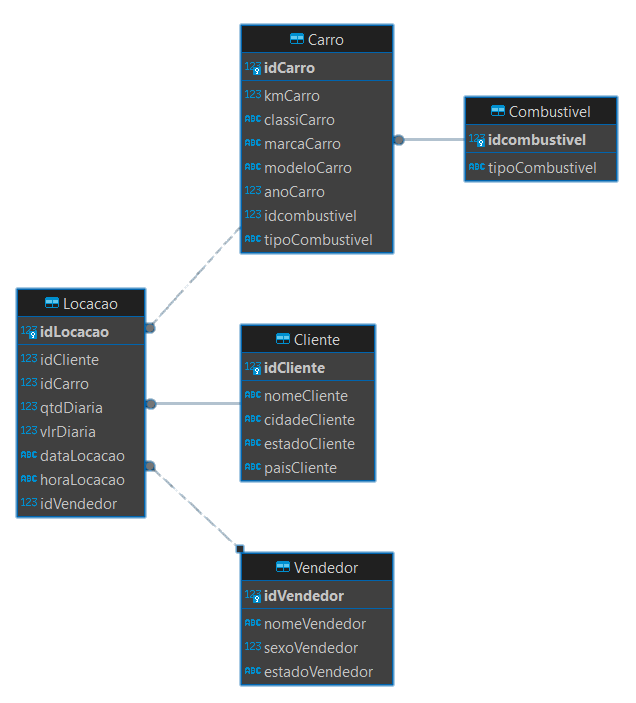
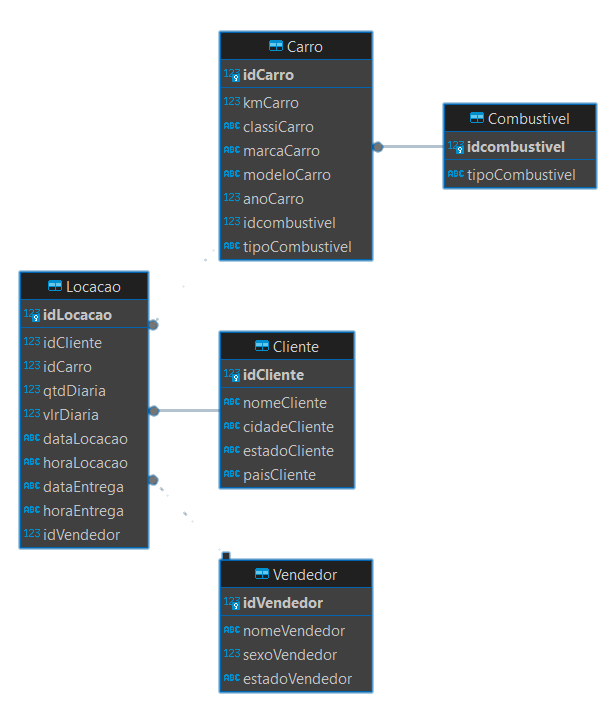
update README info and images

diff --git a/sprint-9/exercicios/modelagem-relacional/README.md b/sprint-9/exercicios/modelagem-relacional/README.md
@@ -2,7 +2,7 @@
 
 ## Normalização da Tabela tb_locacao
 
-Esse README descreve o processo de normalização da tabela tb_locacao proposta no exercicío 1, incluindo as motivações para a normalização, os passos realizados para atingir o resultado final e o diagrama resultante do banco de dados normalizado.
+Esse README descreve o processo de normalização da tabela tb_locacao, incluindo as motivações para a normalização, os passos realizados para atingir o resultado final e o diagrama resultante do banco de dados normalizado.
 
 ## Motivações para a Normalização:
 
@@ -69,6 +69,8 @@ CREATE TABLE Locacao (
   vlrDiaria DECIMAL,
   dataLocacao DATE,
   horaLocacao TIME,
+  dataEntrega DATE,
+  horaEntrega TIME,
   idVendedor INTEGER,
   FOREIGN KEY (idCliente) REFERENCES Cliente (idCliente),
   FOREIGN KEY (idCarro) REFERENCES Carro (idCarro),
@@ -113,8 +115,8 @@ INSERT OR IGNORE INTO Vendedor (idVendedor, nomeVendedor, sexoVendedor, estadoVe
 SELECT DISTINCT idVendedor, nomeVendedor, sexoVendedor, estadoVendedor
 FROM tb_locacao;
 
-INSERT INTO Locacao (idLocacao, idCliente, idCarro, qtdDiaria, vlrDiaria, dataLocacao, horaLocacao, idVendedor)
-SELECT DISTINCT idLocacao, idCliente, idCarro, qtdDiaria, vlrDiaria, dataLocacao, horaLocacao, idVendedor
+INSERT INTO Locacao (idLocacao, idCliente, idCarro, qtdDiaria, vlrDiaria, dataLocacao, horaLocacao, dataEntrega, horaEntrega, idVendedor)
+SELECT DISTINCT idLocacao, idCliente, idCarro, qtdDiaria, vlrDiaria, dataLocacao, horaLocacao, dataEntrega, horaEntrega, idVendedor
 FROM tb_locacao;
 ```
 
@@ -122,8 +124,57 @@ FROM tb_locacao;
 
 A estrutura resultante do banco de dados normalizado consiste em várias tabelas separadas para cada entidade identificada, com chaves estrangeiras estabelecendo as relações entre elas.
 
-#### Modelo Normalizado:
+### Modelo Normalizado:
 
 <div align=center>
       <img width=400px src="04-diagrama-ER-normalizado.png">
 </div>
+
+### Query teste:
+
+```sql
+-- Query para testar as tabelas após a normalização da tabela tb_locacao
+
+SELECT 
+    l.idLocacao,
+    c.nomeCliente,
+    ca.marcaCarro,
+    ca.modeloCarro,
+    co.tipoCombustivel,
+    l.dataLocacao,
+    l.horaLocacao,
+    l.dataEntrega,
+    l.horaEntrega,
+    v.nomeVendedor
+FROM Locacao l
+JOIN Cliente c ON l.idCliente = c.idCliente
+JOIN Carro ca ON l.idCarro = ca.idCarro
+JOIN Combustivel co ON ca.idcombustivel = co.idcombustivel
+JOIN Vendedor v ON l.idVendedor = v.idVendedor;
+```
+
+#### Resultado
+
+| idLocacao | nomeCliente | marcaCarro | modeloCarro | tipoCombustivel | dataLocacao | horaLocacao | dataEntrega | horaEntrega | nomeVendedor |
+|----|-----------------|----------------|-----------------|---------------------|-----------------|-----------------|-----------------|-----------------|------------------|
+| 6  | Cliente seis    | Fiat | Fiat Palio | Gasolina | 20160302 | 14:00 | 20160312 | 14:00 | Vendedora oito |
+| 7  | Cliente seis    | Fiat | Fiat Palio | Gasolina | 20160802 | 14:00 | 20160812 | 14:00 | Vendedora oito |
+| 8  | Cliente quatro  | Fiat | Fiat Palio | Gasolina | 20170102 | 18:00 | 20170112 | 18:00 | Vendedora seis |
+| 9  | Cliente quatro  | Fiat | Fiat Palio | Gasolina | 20180102 | 18:00 | 20180112 | 18:00 | Vendedora seis |
+| 10 | Cliente dez     | Fiat | Fiat 147 | Gasolina | 20180302 | 18:00 | 20180312 | 18:00 | Vendedor dezesseis |
+| 11 | Cliente vinte   | VW | Fusca 78 | Gasolina | 20180401 | 11:00 | 20180411 | 11:00 | Vendedor dezesseis |
+| 12 | Cliente vinte   | VW | Fusca 78 | Gasolina | 20200401 | 11:00 | 20200411 | 11:00 | Vendedor dezesseis |
+| 13 | Cliente vinte e dois | Fiat | Fiat Uno | Gasolina | 20220501 | 8:00 | 20220521 | 18:00 | Vendedor trinta |
+| 14 | Cliente vinte e dois | Fiat | Fiat Uno | Gasolina | 20220601 | 8:00 | 20220621 | 18:00 | Vendedor trinta |
+| 15 | Cliente vinte e dois | Fiat | Fiat Uno | Gasolina | 20220701 | 8:00 | 20220721 | 18:00 | Vendedor trinta |
+| 16 | Cliente vinte e dois | Fiat | Fiat Uno | Gasolina | 20220801 | 8:00 | 20220721 | 18:00 | Vendedor trinta |
+| 17 | Cliente vinte e tres | Fiat | Fiat Palio | Gasolina | 20220901 | 8:00 | 20220921 | 18:00 | Vendedor trinta e um |
+| 18 | Cliente vinte e tres | Fiat | Fiat Palio | Gasolina | 20221001 | 8:00 | 20221021 | 18:00 | Vendedor trinta e um |
+| 19 | Cliente vinte e tres | Fiat | Fiat Palio | Gasolina | 20221101 | 8:00 | 20221121 | 18:00 | Vendedor trinta e um |
+| 20 | Cliente cinco   | Fiat | Fiat Uno | Gasolina | 20230102 | 18:00 | 20230112 | 18:00 | Vendedor dezesseis |
+| 21 | Cliente cinco   | Fiat | Fiat Uno | Gasolina | 20230115 | 18:00 | 20230125 | 18:00 | Vendedor dezesseis |
+| 22 | Cliente vinte e seis | Fiat | Fiat Palio | Gasolina | 20230125 | 8:00 | 20230130 | 18:00 | Vendedora trinta e dois |
+| 23 | Cliente vinte e seis | Fiat | Fiat Palio | Gasolina | 20230131 | 8:00 | 20230205 | 18:00 | Vendedora trinta e dois |
+| 24 | Cliente vinte e seis | Fiat | Fiat Palio | Gasolina | 20230206 | 8:00 | 20230211 | 18:00 | Vendedora trinta e dois |
+| 25 | Cliente vinte e seis | Fiat | Fiat Palio | Gasolina | 20230212 | 8:00 | 20230217 | 18:00 | Vendedora trinta e dois |
+| 26 | Cliente vinte e seis | Fiat | Fiat Palio | Gasolina | 20230218 | 8:00 | 20230219 | 18:00 | Vendedora trinta e dois |
